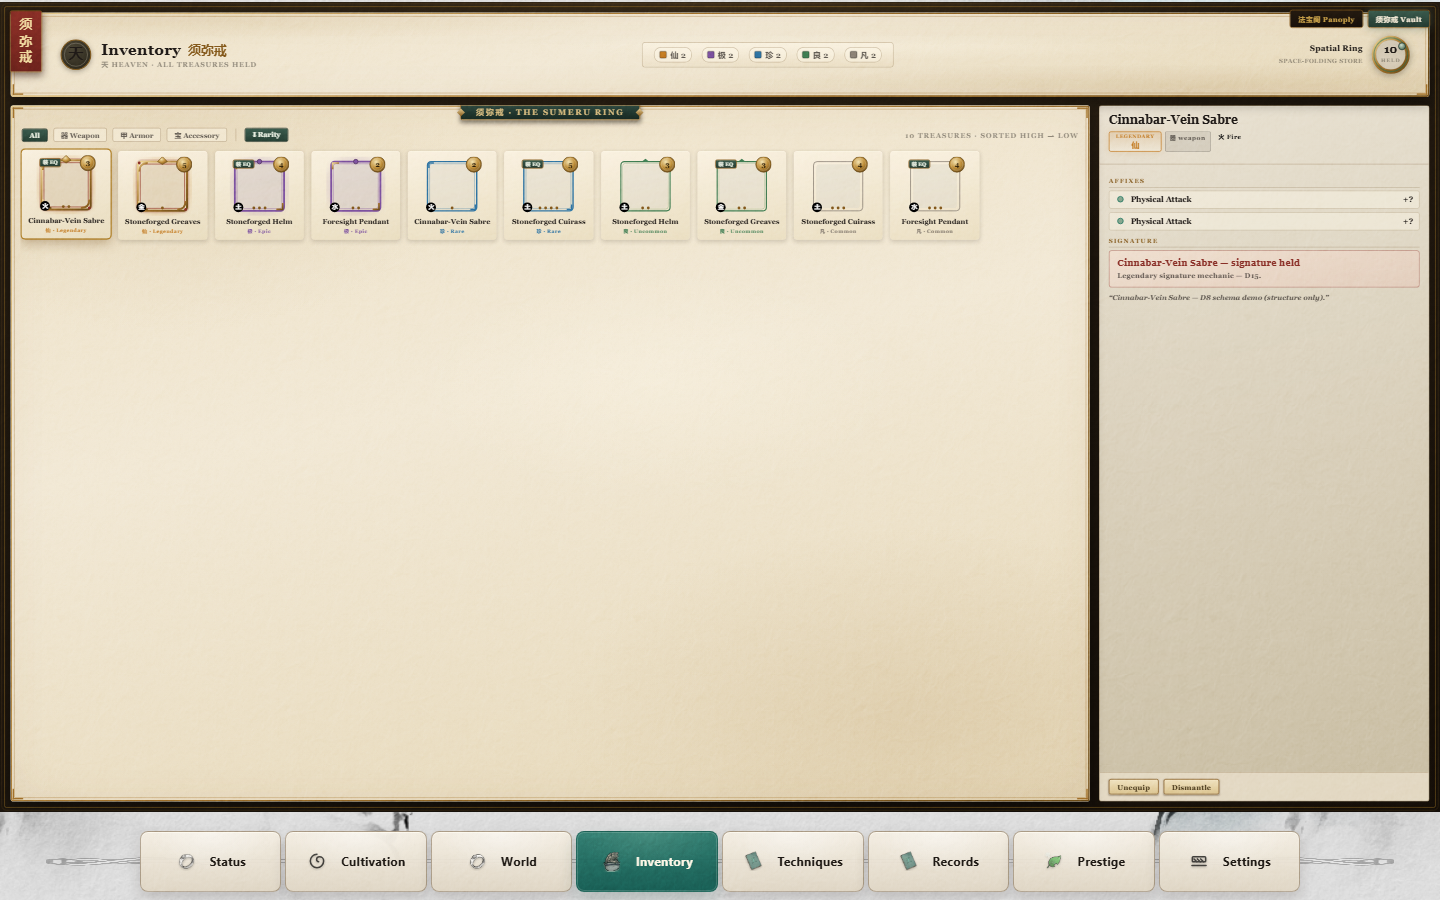
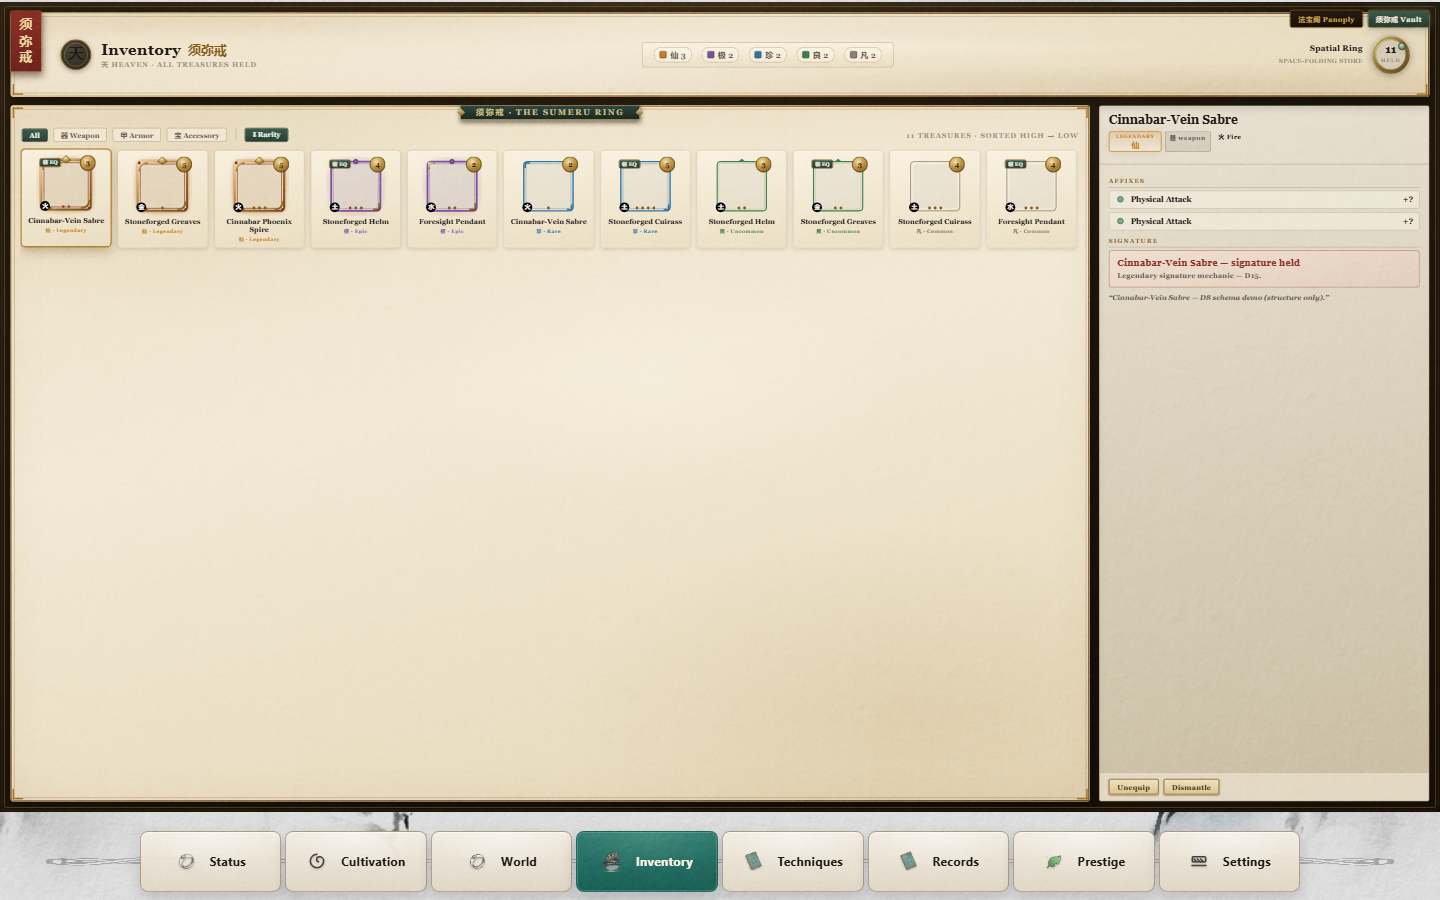
feat(equipment): M.III.1 — the foundational legendary catalog (closes the last D17 M.III deliverable gap)
Audit of M.III vs the full D17 M.III.1 spec found one unbuilt deliverable: the "foundational legendary catalog
(named apex items + their unique mechanics)". The gear model had the rolled common→epic pool (affixes/set
bonds/drops/upgrade/roll/composeGear) but no legendary tier. Build it, citing the worked examples (no inventing):

- gearModel.ts: ItemDef gains an additive optional `signature?: {name, body}` — the legendary's named
  unique-mechanic edge (shape only; the magnitude in `body` is illustrative [tune] → D15).
- content/gearLegendaries.ts: GEAR_LEGENDARIES — the foundational catalog, seeded from the locked M.III.2
  artifact + the F2 inspector's worked apex (the Cinnabar Phoenix Spire / Vermilion-Echo). rarityTier
  'legendary', weapon-bondable, with its signature. D8 §G deposits the full per-path roster + the numbers.
- content/gearItems.ts: ALL_GEAR_DEFS (demo + legendaries) + findGearItemDef(id) — the unified resolver.
- panoplyVaultInput + usePanoplyActionController: getDef/resolveDef now use findGearItemDef, so a legendary
  instance resolves its def (name/slot/signature) on the live surface.
- equipmentExactBuilders.toItemDetailSurface: reads `def.signature` → the legendary's real signature flows
  into the F2 inspector (not a placeholder).
- panoplyTestGear: grants the legendary apex into the Vault (immortal frame + the signature in the rail).
- gearLegendaries.contract.test.ts: catalog-completeness (the "validate over the legendary ids" deliverable) —
[…]

diff --git a/tests/contracts/gearLegendaries.contract.test.ts b/tests/contracts/gearLegendaries.contract.test.ts
@@ -1,0 +1,44 @@
+import assert from 'node:assert/strict';
+import test from 'node:test';
+
+import { GEAR_LEGENDARIES } from '../../src/content/gearLegendaries.js';
+import { ALL_GEAR_DEFS, findGearItemDef } from '../../src/content/gearItems.js';
+
+/**
+ * D17 M.III.1 — the foundational legendary catalog (D8 §G). Catalog-completeness in the gate: the named apex
+ * items resolve, every legendary carries its named signature mechanic (shape; magnitudes HELD → D15), and a
+ * weapon legendary is bond-eligible. Mirrors gearCatalog.contract.test.ts (the rolled-pool integrity).
+ */
+
+test('M.III.1 legendary catalog: non-empty, unique ids, legendary rarity + rarityTier', () => {
+  assert.ok(GEAR_LEGENDARIES.length > 0, 'the foundational legendary catalog has at least one apex');
+  const ids = GEAR_LEGENDARIES.map((d) => d.id);
+  assert.equal(new Set(ids).size, ids.length, 'duplicate legendary ids');
+  for (const d of GEAR_LEGENDARIES) {
+    assert.equal(d.rarity, 'legendary', `${d.id}: rarity legendary`);
+    assert.equal(d.rarityTier, 'legendary', `${d.id}: rarityTier legendary`);
+  }
+});
+
+test('M.III.1 legendary catalog: every apex carries a named signature mechanic (name + body)', () => {
+  for (const d of GEAR_LEGENDARIES) {
+    assert.ok(d.signature, `${d.id}: signature present`);
+    assert.ok((d.signature?.name ?? '').length > 0, `${d.id}: signature name`);
+    assert.ok((d.signature?.body ?? '').length > 0, `${d.id}: signature body`);
+  }
+});
+
+test('M.III.1 legendary catalog: each has a gearSlot + affixPool; a weapon apex is weapon-bond eligible', () => {
+  for (const d of GEAR_LEGENDARIES) {
+    assert.ok(d.gearSlot, `${d.id}: gearSlot`);
+    assert.ok(Array.isArray(d.affixPool) && d.affixPool.length > 0, `${d.id}: affixPool present`);
+    if (d.gearSlot === 'weapon') assert.equal(d.weaponBondable, true, `${d.id}: a weapon legendary is bondable (Martial bond)`);
+  }
+});
+
+test('M.III.1 legendary catalog: every id resolves via findGearItemDef + is in ALL_GEAR_DEFS', () => {
+  for (const d of GEAR_LEGENDARIES) {
+    assert.equal(findGearItemDef(d.id)?.id, d.id, `${d.id} resolves via findGearItemDef`);
+    assert.ok(ALL_GEAR_DEFS.some((x) => x.id === d.id), `${d.id} is in ALL_GEAR_DEFS`);
+  }
+});

diff --git a/src/content/gearLegendaries.ts b/src/content/gearLegendaries.ts
@@ -1,0 +1,42 @@
+import type { ItemDef, GearSlot } from '../systems/equipment/gearModel.js';
+import type { ItemType } from '../types/index.js';
+
+/**
+ * D8 §G — the FOUNDATIONAL legendary catalog (M.III.1 deliverable). The named apex items + their unique
+ * "signature" mechanics — the legendary tier of the two-axis gear model, distinct from the rolled
+ * common→epic pool. STRUCTURE ONLY:
+ *  - The catalog's SHAPE is fixed here (a legendary ItemDef carries `rarityTier:'legendary'` + a named
+ *    `signature` edge); validate:content / the contract test runs over these ids (catalog-completeness).
+ *  - NO authored magnitude: the signature `body` describes the mechanic SHAPE; every number inside is
+ *    illustrative `[tune]` → D15/F-BAL. The bond accrual + the live combat effect are D5/D11/Movement V.
+ *  - Seeded from the locked M.III.2 artifact + the F2 inspector's worked example (the Cinnabar Phoenix
+ *    Spire, the Vermilion-Regalia Martial apex). D8 §G deposits the full per-path apex roster (an Earth
+ *    aegis, a Heaven relic, …); this module is the structure + the first cited apex it extends.
+ */
+
+const legendary = (id: string, name: string, type: ItemType, gearSlot: GearSlot, extra: Partial<ItemDef>): ItemDef => ({
+  id,
+  name,
+  description: `${name} — D8 §G apex legendary (structure only; magnitudes [tune] → D15).`,
+  type,
+  rarity: 'legendary',
+  level: 1,
+  value: '0',
+  stackable: false,
+  maxStack: 1,
+  gearSlot,
+  rarityTier: 'legendary',
+  ...extra,
+});
+
+export const GEAR_LEGENDARIES: readonly ItemDef[] = Object.freeze([
+  legendary('demo_cinnabar_phoenix_spire', 'Cinnabar Phoenix Spire', 'weapon', 'weapon', {
+    affixPool: ['phys_attack_pct', 'crit_damage_pct', 'crit_chance_pct'],
+    setId: 'vermilion',
+    weaponBondable: true,
+    signature: {
+      name: 'The Vermilion Echo',
+      body: 'On a killing blow the spire rekindles — recover a share of max HP ([tune] → D15) and the next strike carries its fire whole. A named blade remembers what it has burned.',
+    },
+  }),
+]);

diff --git a/src/systems/ui/equipment/panoplyVaultInput.ts b/src/systems/ui/equipment/panoplyVaultInput.ts
@@ -2,7 +2,7 @@ import { useEquipmentStore, type TemperAffix } from '../../../stores/equipmentSt
 import { useInventoryStore } from '../../../stores/inventoryStore.js';
 import { useContentStore } from '../../../stores/contentStore.js';
 import { useGameStore } from '../../../stores/gameStore.js';
-import { GEAR_ITEM_DEFS } from '../../../content/gearItems.js';
+import { findGearItemDef } from '../../../content/gearItems.js';
 import { composeGear } from '../../equipment/equipmentGearResolver.js';
 import { toEquipmentGearInput } from '../../equipment/toEquipmentGearInput.js';
 import type { DerivedStatKey } from '../../meridians/derivedStats.js';
@@ -75,7 +75,7 @@ export function readPanoplyVaultRawInput(args: PanoplyVaultInputArgs): PanoplyVa
   const game = useGameStore.getState();
 
   const getDef: GetDef = (defId) => {
-    const gear = GEAR_ITEM_DEFS.find((d) => d.id === defId);
+    const gear = findGearItemDef(defId);
     if (gear) return gear;
     try {
       return content.getItem(defId);

diff --git a/src/content/gearItems.ts b/src/content/gearItems.ts
@@ -1,5 +1,6 @@
 import type { ItemDef, GearSlot } from '../systems/equipment/gearModel.js';
 import type { ItemType } from '../types/index.js';
+import { GEAR_LEGENDARIES } from './gearLegendaries.js';
 
 /**
  * D8 — a few example ItemDefs wearing the new gear fields. CONTENT-SHAPE DEMO ONLY: it exercises the
@@ -36,3 +37,11 @@ export const GEAR_ITEM_DEFS: readonly ItemDef[] = Object.freeze([
   // accessory — Heaven
   demo('demo_foresight_pendant', 'Foresight Pendant', 'accessory', 'accessory', { affixPool: ['status_resist'] }),
 ]);
+
+/** The whole D8 gear registry — the rolled common→epic demo set + the foundational legendary catalog (D8 §G). */
+export const ALL_GEAR_DEFS: readonly ItemDef[] = Object.freeze([...GEAR_ITEM_DEFS, ...GEAR_LEGENDARIES]);
+
+/** Resolve a gear `defId` → ItemDef across the demo set + the legendary catalog. */
+export function findGearItemDef(defId: string): ItemDef | undefined {
+  return ALL_GEAR_DEFS.find((d) => d.id === defId);
+}

diff --git a/src/features/equipment/panoply/usePanoplyActionController.ts b/src/features/equipment/panoply/usePanoplyActionController.ts
@@ -4,7 +4,7 @@ import { useEquipmentStore } from '../../../stores/equipmentStore.js';
 import { useInventoryStore } from '../../../stores/inventoryStore.js';
 import { useContentStore } from '../../../stores/contentStore.js';
 import { useGameStore } from '../../../stores/gameStore.js';
-import { GEAR_ITEM_DEFS } from '../../../content/gearItems.js';
+import { findGearItemDef } from '../../../content/gearItems.js';
 import type { GearSlot, ItemDef } from '../../../systems/equipment/gearModel.js';
 import type { Loadout } from '../../../systems/equipment/gearLoadout.js';
 import type {
@@ -39,7 +39,7 @@ export interface PanoplyActions {
 }
 
 function resolveDef(defId: string): ItemDef | undefined {
-  const gear = GEAR_ITEM_DEFS.find((d) => d.id === defId);
+  const gear = findGearItemDef(defId);
   if (gear) return gear;
   try {
     return useContentStore.getState().getItem(defId);

diff --git a/src/features/equipment/panoply/panoplyTestGear.ts b/src/features/equipment/panoply/panoplyTestGear.ts
@@ -50,4 +50,18 @@ export function grantPanoplyTestGear(): void {
     // Array the figure: equip the "worn" copy into its slot (the spare stays in the Vault).
     if (def.gearSlot) eq.equipInstance(worn, def, def.gearSlot, realm);
   });
+
+  // + the foundational legendary apex in the Vault (immortal frame + the Vermilion-Echo signature in the rail).
+  inv.addGearInstance({
+    instanceId: 'test-legendary-spire',
+    defId: 'demo_cinnabar_phoenix_spire',
+    rarity: 'legendary',
+    itemTier: 5,
+    elementPayload: 'fire',
+    affixes: [
+      { affixId: 'spire-atk', channel: 'physAttack', valuePct: 0.45 },
+      { affixId: 'spire-critdmg', channel: 'critDamage', valuePct: 0.85 },
+      { affixId: 'spire-crit', channel: 'critChance', valuePct: 0.12 },
+    ],
+  });
 }

diff --git a/src/systems/ui/equipment/equipmentExactBuilders.ts b/src/systems/ui/equipment/equipmentExactBuilders.ts
@@ -133,7 +133,11 @@ export function toItemDetailSurface(input: ItemDetailMapInput): ItemDetailSurfac
         : { verb: 'Equip', enabled: true, route: 'equipment.equip' },
       { verb: 'Dismantle', enabled: true, route: 'vault.dismantle', confirm: { prompt: `Dismantle ${name}? (yield held — D15)` } },
     ],
-    signature: isLegendary ? { name: `${name} — signature held`, body: 'Legendary signature mechanic — D15.' } : null,
+    signature: def?.signature
+      ? { name: def.signature.name, body: def.signature.body }
+      : isLegendary
+        ? { name: `${name} — signature held`, body: 'Legendary signature mechanic — D15.' }
+        : null,
   };
 }
 

diff --git a/src/systems/equipment/gearModel.ts b/src/systems/equipment/gearModel.ts
@@ -60,6 +60,9 @@ export interface ItemDef extends ItemDefinition {
   readonly setId?: string | null;                   // Earth armor set family
   readonly weaponBondable?: boolean;                // PLACEHOLDER (Martial)
   readonly baseChannels?: Partial<Record<DerivedStatKey, number>>; // HELD base power
+  /** D8 §G — the legendary's named unique-mechanic edge (apex catalog only). The SHAPE is fixed here; the
+   *  magnitude inside `body` is illustrative `[tune]` → D15. Absent on non-legendary items. */
+  readonly signature?: { readonly name: string; readonly body: string };
 }
 
 /** A rolled per-copy item — the heart of D8. */

diff --git a/docs/codex/EQ_PORT_PROGRESS.md b/docs/codex/EQ_PORT_PROGRESS.md
@@ -4,6 +4,19 @@
 > `C:\Users\abdul\Downloads\M_III_2_panoply_vault.html`) into live React/TS/SCSS, flag-gated, preserve-first,
 > 1:1 with the artifact. Build bottom-up (data → paint → VFX → verify). Typecheck after each file.
 
+## M.III COMPLETENESS vs D17 (audit + the one closed gap)
+D17 Movement III = M.III.1 EQ-MECH (row 07) + M.III.3 EQ-PORT (row 08); M.III.2 is the artifact. Both packets
+DONE + verified. Audit vs the FULL D17 M.III.1 deliverable list found ONE gap — the **foundational legendary
+catalog** (named apex items + unique mechanics) — now CLOSED: `src/content/gearLegendaries.ts` (the Cinnabar
+Phoenix Spire apex, cited from the artifact/F2; the full per-path roster + magnitudes are D8 §G/D15), wired via
+`findGearItemDef` (ALL_GEAR_DEFS = demo + legendaries) into the seam/controller, the signature flows into the
+F2 inspector (toItemDetailSurface reads `def.signature`), and `gearLegendaries.contract.test.ts` validates the
+ids (catalog-completeness). The test gear includes the Spire. test:contracts 575→576.
+STRUCTURAL DIVERGENCE (not a gap): the port uses the Cultivation-Seat-mirror file layout (PanoplyScreenOwner,
+PanoplyVaultScreen, …) — the EQ-PORT packet's explicit choice — not D17's prescribed eight-file
+src/features/equipment/exact/ set. Functionally equivalent. Correctly HELD/deferred: all magnitudes → D15; the
+Weapon-Bond accrual loop → D5/D11; combat consuming composeGear → Movement V; the full legendary roster → D8 §G.
+
 ## CUTOVER + live fixes (owner-requested: "make the new inventory the live version")
 The new Panoply/Vault surface is now the **public default** for the Equipment tab (PANOPLY_PUBLIC_DEFAULT_ENABLED
 = true), reading LIVE data. Three root causes of "completely broken / very different from the artifact" fixed:
